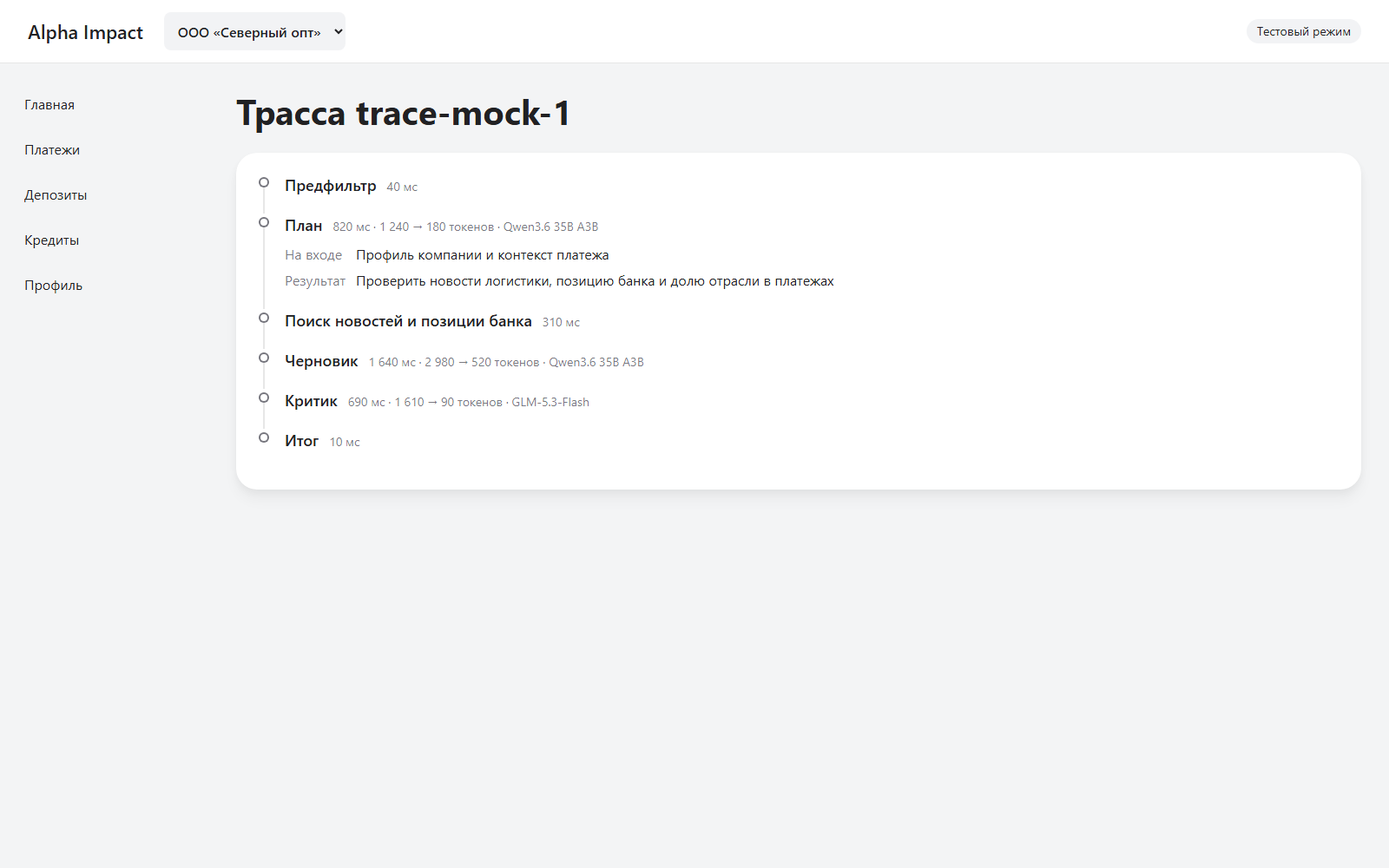
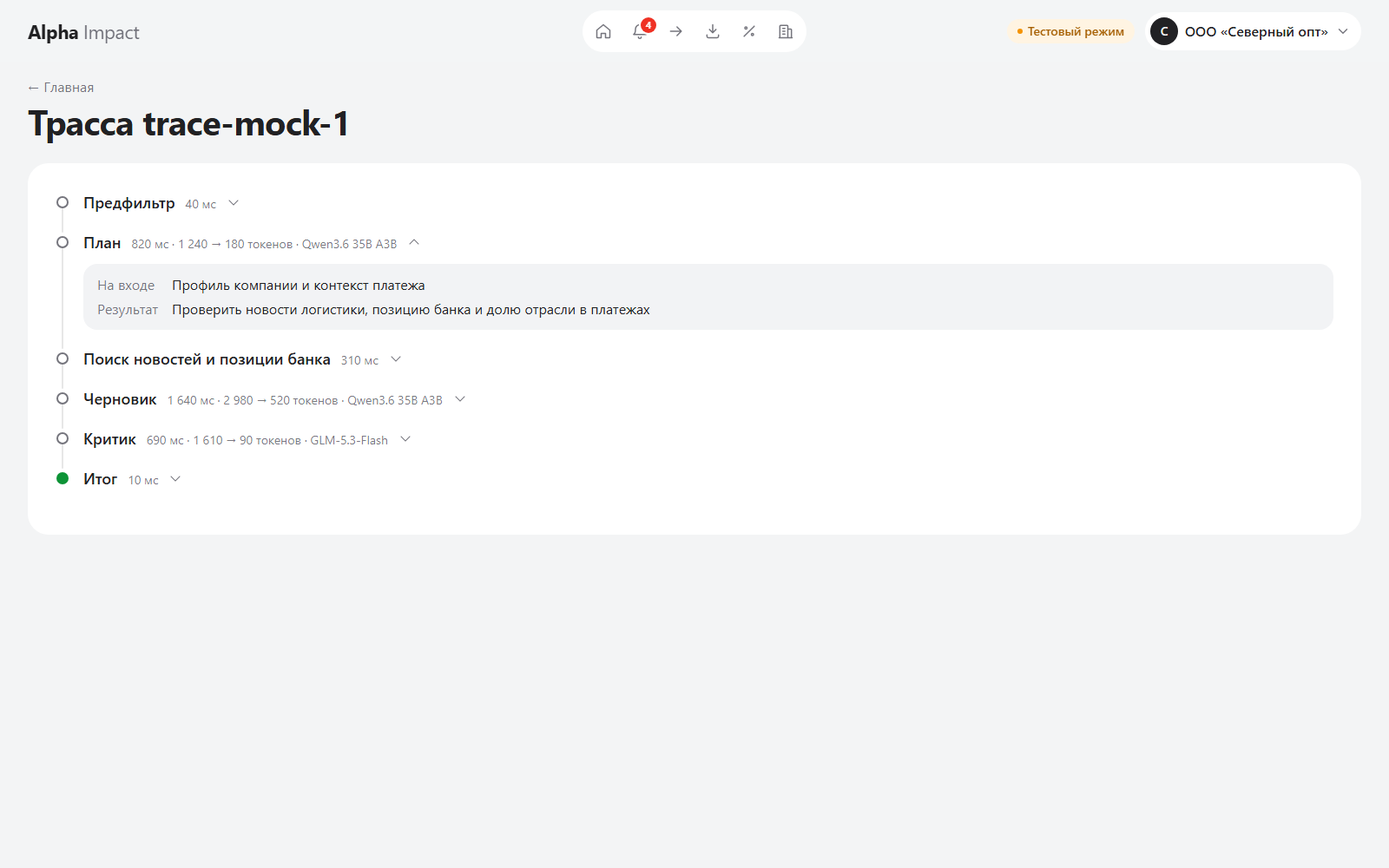
- В узкой панели (side panel, 320 px) блок продукта в одну колонку: кнопка под текстом, а не рядом - Скриншоты docs/design пересняты в новом виде, добавлена главная в тёмной теме - docs/design/README: новые токены, тёмная тема, верхняя навигация, значимость столбиками, плитки главной; Onest не загру

diff --git a/frontend/tests/design/screenshots.spec.ts b/frontend/tests/design/screenshots.spec.ts
@@ -12,6 +12,16 @@ test("dashboard", async ({ page }) => {
   await page.screenshot({ path: path.join(OUTPUT, "dashboard.png"), fullPage: true, animations: "disabled" });
 });
 
+test.describe("dark theme", () => {
+  test.use({ colorScheme: "dark" });
+
+  test("dashboard", async ({ page }) => {
+    await page.goto("/");
+    await expect(page.getByRole("heading", { name: "Что важно для вашего бизнеса" })).toBeVisible();
+    await page.screenshot({ path: path.join(OUTPUT, "dashboard-dark.png"), fullPage: true, animations: "disabled" });
+  });
+});
+
 test("payment with the panel", async ({ page }) => {
   await page.goto("/payments/new");
   await page.getByLabel("Получатель").selectOption("cp_logistics_spb");

diff --git a/frontend/app-plugin/src/styles/panel.css b/frontend/app-plugin/src/styles/panel.css
@@ -319,7 +319,6 @@
 .product-offer .button-secondary {
   grid-column: 2;
   grid-row: 1 / span 3;
-  justify-self: start;
   margin-top: 0;
 }
 
@@ -342,6 +341,16 @@
 .insight-panel-compact .insight-card {
   padding: var(--s-4);
   gap: var(--s-3);
+}
+
+.insight-panel-compact .product-offer {
+  grid-template-columns: minmax(0, 1fr);
+}
+
+.insight-panel-compact .product-offer .button-secondary {
+  grid-column: 1;
+  grid-row: auto;
+  margin-top: var(--s-2);
 }
 
 @media (prefers-reduced-motion: reduce) {

diff --git a/docs/design/README.md b/docs/design/README.md
@@ -9,12 +9,13 @@
 | Группа | Токены |
 |---|---|
 | Шрифт | `--font-family` (Inter, затем системные), веса 400 / 500 / 700, шкала `--fs-11…--fs-40`, межстрочные `--lh-16…--lh-48`; основной текст 18/26, вторичный 16/24, подписи 14/20, заголовок страницы 40/48 |
-| Акцент | `--accent`, `--accent-hover`, `--accent-active` — только primary-действие |
-| Текст | `--text-primary`, `--text-secondary` (только на белом, на `--bg-page` ниже AA), `--text-tertiary` (не для значимого текста), `--text-on-dark` |
+| Действия | `--accent`, `--accent-hover`, `--accent-active`, `--on-accent` — красный, только одно действие на экране; `--primary`, `--primary-hover`, `--on-primary` — графитовые основные кнопки и активный пункт навигации |
+| Текст | `--text-primary`, `--text-secondary` (только на белом, на `--bg-page` ниже AA), `--text-tertiary` (не для значимого текста), `--text-on-dark`, `--link` — ссылки |
 | Поверхности | `--bg-page`, `--bg-card`, `--bg-neutral`, `--bg-neutral-strong`, `--bg-dark`, `--border`, `--border-soft` |
-| Функциональные | `--info`, `--success`, `--warning` (`#F59300` — та же насыщенность, что у остальных), `--danger`, `--bank` (текст на фиолетовой плашке) и плашки `--bg-info`, `--bg-success`, `--bg-warning`, `--bg-danger`, `--bg-bank`, `--bg-ai` |
-| Форма | `--r-pill`, `--r-xl`, `--r-lg`, `--r-md`, `--r-sm`, `--shadow-card` |
-| Отступы и размеры | шаг 4: `--s-1…--s-8`; контент на всю ширину экрана без ограничивающего контейнера; высота полей и кнопок `--control-h` 56px, `--control-h-sm` 44px |
+| Функциональные | `--info`, `--success`, `--warning` (`#F59300` — та же насыщенность, что у остальных), `--danger`, `--bank` (текст на фиолетовой плашке) и плашки `--bg-info`, `--bg-success`, `--bg-warning`, `--bg-danger`, `--bg-bank`, `--bg-ai`; текст статуса на светлой плашке — `--success-text`, `--warning-text`, `--danger-text` |
+| Форма | `--r-pill`, `--r-xl`, `--r-lg`, `--r-md`, `--r-sm`; карточки плоские, `--shadow-card` и `--shadow-raised` — только у того, что поднимается над страницей (нижняя навигация на телефоне) |
+| Отступы и размеры | шаг 4: `--s-1…--s-8`; контент на всю ширину экрана без ограничивающего контейнера; высота полей и кнопок `--control-h` 56px, `--control-h-sm` 44px, `--control-h-xs` 32px; `--s-12` 48px; высота шапки `--shell-top-h` 72px |
+| Тема | светлая по умолчанию; тёмная — по настройке ОС (`prefers-color-scheme`) или `<html data-theme="dark">`, `data-theme="light"` её отключает; одни и те же тёмные значения для обоих случаев проверяет `tokens.test.ts` |
 | Движение | `--t-fast` 150 мс, `--t-base` 200 мс; `prefers-reduced-motion` обнуляет анимации |
 
 ## Принципы
@@ -26,7 +27,9 @@
 - **Молчание — хорошее состояние.** Нейтральная галочка и одна фраза причины, без красного и восклицаний.
 - **Без мигания.** Панель появляется через 500 мс после изменения ключевого поля. Старая карточка остаётся до прихода новой, поверх неё идёт тонкая полоса прогресса. Форму панель не блокирует и не сдвигает.
 - **Честная ошибка.** «Не успел разобраться с этим действием» и «Попробовать ещё раз», без технических слов.
-- **Значимость — три точки**, а не процент и не «high / medium».
+- **Значимость — три растущих столбика**, а не процент и не «high / medium»; на высшем уровне столбики красные.
+- **Навигация сверху.** Разделы — иконки в пилюле по центру шапки, у активного видна подпись; у «Событий» — число событий компании. На телефоне пилюля плавает внизу экрана.
+- **Главная — плитки.** Лента событий, тёмная плитка счёта, красная плитка платежа и плитки депозита и кредитов со сводкой раздела.
 
 ## Скриншоты
 
@@ -35,6 +38,7 @@
 | Экран | Файл |
 |---|---|
 | Главный экран с виджетом «Что важно для вашего бизнеса» | `dashboard.png` |
+| Главный экран в тёмной теме | `dashboard-dark.png` |
 | Платёж с панелью справа | `payment.png` |
 | Профиль: факты банка и выведенные признаки | `profile.png` |
 | Трасса «как получен вывод» | `trace.png` |
@@ -45,7 +49,8 @@
 
 ## Что сознательно не делали
 
-- Логотип, wordmark и шрифт Alfa Interface Sans банка: продукт назван текстом «Alpha Impact», Inter стоит только в font-stack, без загрузки файлов шрифта.
+- Логотип, wordmark и шрифт Alfa Interface Sans банка: продукт назван текстом «Alpha Impact», Inter стоит только в font-stack, без загрузки файлов шрифта. Onest из прототипа редизайна (AH-59) тоже не загружается.
+- Переключатель темы в интерфейсе: тема следует настройке ОС.
 - `@alfalab/core-components` и другие UI-библиотеки: новых зависимостей нет.
 - Анимации дольше 300 мс и анимации при `prefers-reduced-motion`.
 - Автоопределение ширины панели. Узкий контейнер (side panel расширения) передаёт `compact`, вёрстка при этом одна.

diff --git a/docs/decisions/mikhail.md b/docs/decisions/mikhail.md
@@ -39,3 +39,5 @@
 - 2026-10-21: дубль новости (AH-13) — тот же заголовок без учёта регистра и пробелов или тот же адрес, либо ближайшая новость индекса за ±12 ч с косинусом e5 ≥ 0,93 и теми же числами и месяцами; отсеивается до вызова модели; в одном прогоне остаётся более ранняя публикация, а копия, пришедшая позже уже проиндексированной новости, отбрасывается. Замер на 489 новостях из семи лент: дубли из разных лент — 0,92–0,94 в пределах нескольких часов (MOL и NIS, «Сила Байкала», Сазанов об акцизе), разные события одной темы — 0,93–0,95 через сутки и больше (официальный курс доллара по дням, заявления Новака о дизеле); порог 0,93 с окном 12 ч пропускает часть дублей с косинусом 0,92, но не склеивает разные события, а числа отделяют «до 83,76» от «до 83,62»
 - 2026-10-21: `NewsService.search` (AH-13) — новости с `published_at` от начала дня `since` (UTC), у которых пересекаются факторы или совпадает отрасль, регион или страна; порядок — сумма `strength` совпавших факторов плюс число совпавших полей, при равенстве новее выше; без критериев — пустой список; `annotate` размечает вставленный текст без записи в индекс (`source = manual`, время — текущее), запись — AH-40
 - 2026-10-21: пакетный сбор новостей запускается с `LLM_TIMEOUT_SECONDS=30`, как разбор отчётов со своим таймаутом: при 8 с Gemma через прокси на прогоне не успела в 6 вызовах из 36 (по замеру медиана 2,5 с, редкие ответы — 8 с и дольше, с рассуждениями и без почти одинаково), а таймаут по правилу AH-54 оставляет в `llm_usage` резерв 1 ₽ — на 500 новостях это ~100 ₽ учтённого расхода при реальных ~4 ₽; онлайн-`annotate` остаётся с интерактивными 8 с (AH-13)
+- 2026-10-21: редизайн фронта по прототипу владельца (AH-59): навигация переехала из боковой колонки в шапку — иконки в пилюле по центру, у «Событий» число событий компании (скрыто от скринридера, имя ссылки остаётся «События»), на телефоне пилюля плавает внизу; главная — плитки; тёмная тема включается настройкой ОС или `data-theme`, переключателя в интерфейсе нет; заменяет mikhail.md: «макет на всю ширину…» в части боковой навигации
+- 2026-10-21: новые токены и тёмная тема — в `frontend/app-plugin/src/styles/tokens.css`, стили InsightPanel — в самом плагине, а не переопределениями `body …` из приложения, как в прототипе: так расширение и витрина выглядят так же, источник токенов остаётся один; шрифт — по-прежнему Inter в font-stack без загрузки файлов, Onest из прототипа не подключается (AH-59)

diff --git a/docs/BACKLOG.md b/docs/BACKLOG.md
@@ -1,6 +1,6 @@
-# BACKLOG — задачи AH-1…AH-57
+# BACKLOG — задачи AH-1…AH-59
 
-Единственный список задач: 5 эпиков и 51 задача, номера AH-1…AH-57 (AH-17 не используется). Как выполнять задачу — `docs/PIPELINE.md`, кто и в каком порядке — `docs/TEAM.md`. Текст задачи и «Готово, когда» берутся отсюда; при расхождении с Jira прав этот файл.
+Единственный список задач: 5 эпиков и 52 задачи, номера AH-1…AH-59 (AH-17 не используется). Как выполнять задачу — `docs/PIPELINE.md`, кто и в каком порядке — `docs/TEAM.md`. Текст задачи и «Готово, когда» берутся отсюда; при расхождении с Jira прав этот файл.
 
 ## Формат задачи
 
@@ -117,6 +117,12 @@
 - Ответственный: Участник 2
 - Что сделать: правка пользователем `industry_class` пересчитывает экспозиции профиля по новой отрасли (сейчас у U_9250 после правки на `energy` остаётся `construction_demand=0.8`, и предфильтр AH-15 правку не видит); клиент, привязанный к пользователю, с карточкой в `df_Uid_data_hack.csv` и выручкой ниже порога 15 млрд получает профиль из карточки, а не `no_card: true`.
 - Готово, когда: регрессионные тесты на оба случая в `tests/integration/test_profile_service.py` красные до правки и зелёные после; проверка из `docs/PIPELINE.md` зелёная.
+
+### AH-59 · Редизайн фронта по прототипу
+- Эпик: AH-1 · День: 3 · Тип: feat · Зависит от: AH-52
+- Ответственный: Участник 1
+- Что сделать: перевести application и InsightPanel на новый вид по прототипу владельца: верхняя навигация с иконками и пунктом «События» со счётчиком (на телефоне — плавающая снизу), главная из плиток (лента, счёт, платёж, депозит и кредиты со сводкой раздела), статистика кредитов, значимость столбиками, плоские карточки, тёмная тема по настройке ОС. Новые токены и стили панели — в `frontend/app-plugin` (один источник для приложения, витрины и расширения); шрифт — Inter в font-stack без загрузки файлов (решение AH-52 в силе).
+- Готово, когда: все экраны макета (главная, события, платёж, депозит, кредиты, профиль, трасса, вход) и панель в новом виде в светлой и тёмной теме; тесты навигации, сводок и совпадения тёмных токенов зелёные; скриншоты в `docs/design/` пересняты, `README.md` там обновлён; проверка из `docs/PIPELINE.md` зелёная.
 
 ## Эпик AH-12 · Знания и сквозной момент «платёж» (день 2, КТ1)
 

diff --git a/docs/TEAM.md b/docs/TEAM.md
@@ -25,18 +25,19 @@
 | 2 | 5 | AH-50 Агент ведёт задачу целиком: Jira, PR, ревью и мерж, /setup | участник пишет только `/task` |
 | 2 | 6 | AH-51 Журнал решений по файлам участников | параллельные PR не конфликтуют в одном файле |
 | 2 | 7 | AH-52 UI/UX: дизайн-токены и полировка интерфейса | закрывает AH-11; все экраны на моках до AH-20, AH-31–AH-33 |
-| 2 | 8 | AH-20 Момент «платёж» end-to-end, вход, профиль | КТ1 |
-| 3 | 9 | AH-32 Виджет главного экрана | персональная лента: обязательна в демо, критерий 9 |
-| 3 | 10 | AH-31 Моменты «депозит» и «кредит» | |
-| 3 | 11 | AH-33 Экран трассы и переход к источнику | после AH-23 |
-| 4 | 12 | AH-37 Токен расширения и защита от страниц | нужен для AH-35 |
-| 4 | 13 | AH-35 Расширение: service worker и API-клиент | |
-| 4 | 14 | AH-36 Расширение: content script и side panel | |
-| 4 | 15 | AH-41 Живая новость (UI) | КТ2 |
-| 4 | 16 | AH-42 E2E Playwright: сценарий демо | КТ2 |
-| 5 | 17 | AH-44 README и сценарий проверки | |
-| 5 | 18 | AH-45 Лицензии, lock-файлы, релиз | тег до дедлайна |
-| 5 | 19 | AH-47 Репетиция демо, резерв, презентация | три прогона, видео, слайды |
+| 3 | 8 | AH-59 Редизайн фронта по прототипу | новый вид до подключения настоящих данных в AH-20, AH-31–AH-33 |
+| 2 | 9 | AH-20 Момент «платёж» end-to-end, вход, профиль | КТ1 |
+| 3 | 10 | AH-32 Виджет главного экрана | персональная лента: обязательна в демо, критерий 9 |
+| 3 | 11 | AH-31 Моменты «депозит» и «кредит» | |
+| 3 | 12 | AH-33 Экран трассы и переход к источнику | после AH-23 |
+| 4 | 13 | AH-37 Токен расширения и защита от страниц | нужен для AH-35 |
+| 4 | 14 | AH-35 Расширение: service worker и API-клиент | |
+| 4 | 15 | AH-36 Расширение: content script и side panel | |
+| 4 | 16 | AH-41 Живая новость (UI) | КТ2 |
+| 4 | 17 | AH-42 E2E Playwright: сценарий демо | КТ2 |
+| 5 | 18 | AH-44 README и сценарий проверки | |
+| 5 | 19 | AH-45 Лицензии, lock-файлы, релиз | тег до дедлайна |
+| 5 | 20 | AH-47 Репетиция демо, резерв, презентация | три прогона, видео, слайды |
 ## Участник 2 — Данные, знания и платформа бэкенда
 
 Отвечает за паспорт клиента, агрегаты графа, house view с версиями и индекс новостей — всё, что агент читает через инструменты, — и за то, что сервисы собираются без ручных реестров, проект разворачивается на сервере и не отдаёт чужих данных. OCR долгий — запустить фоном сразу после AH-48.
